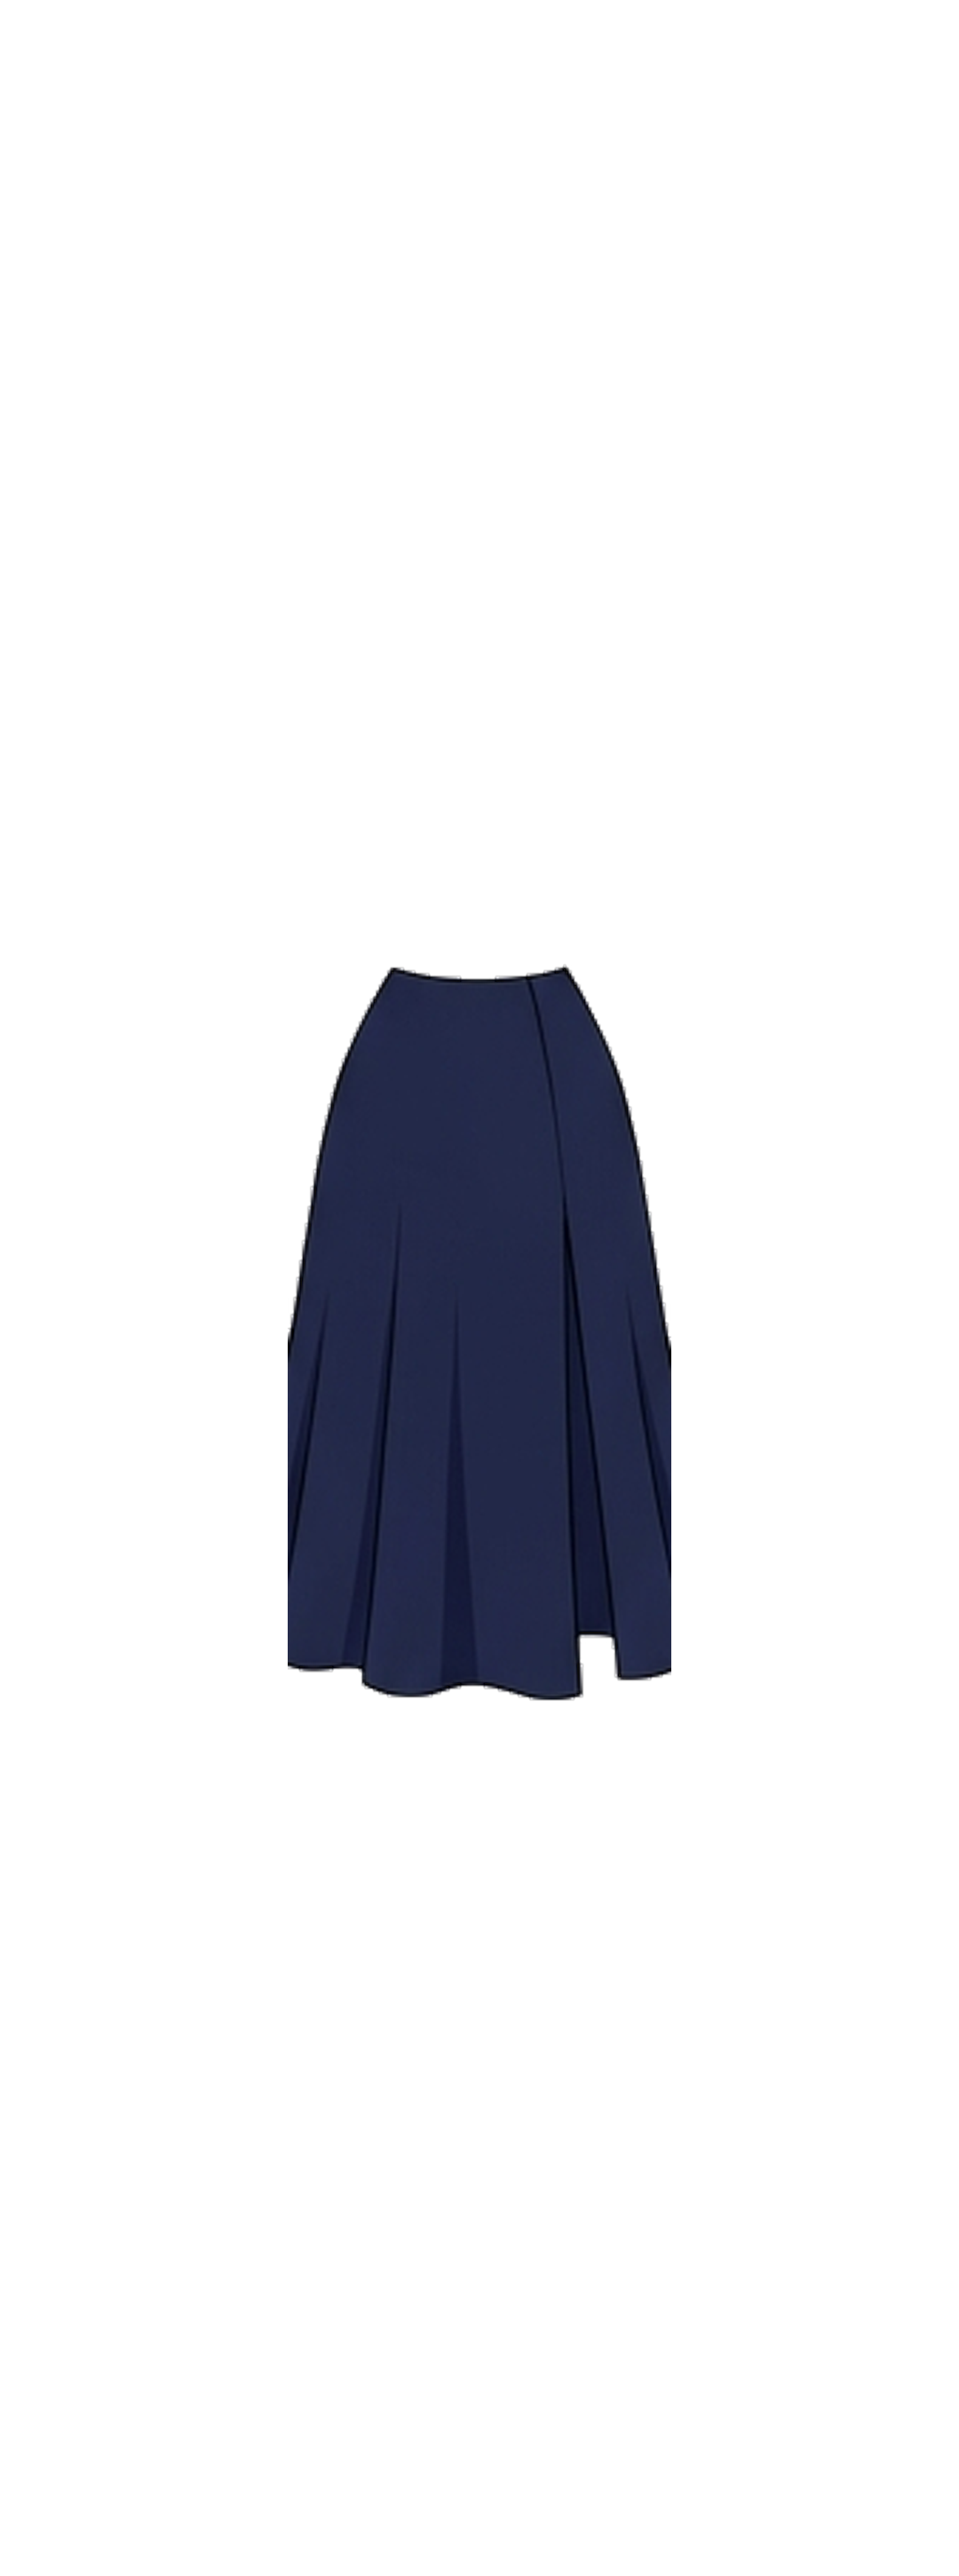
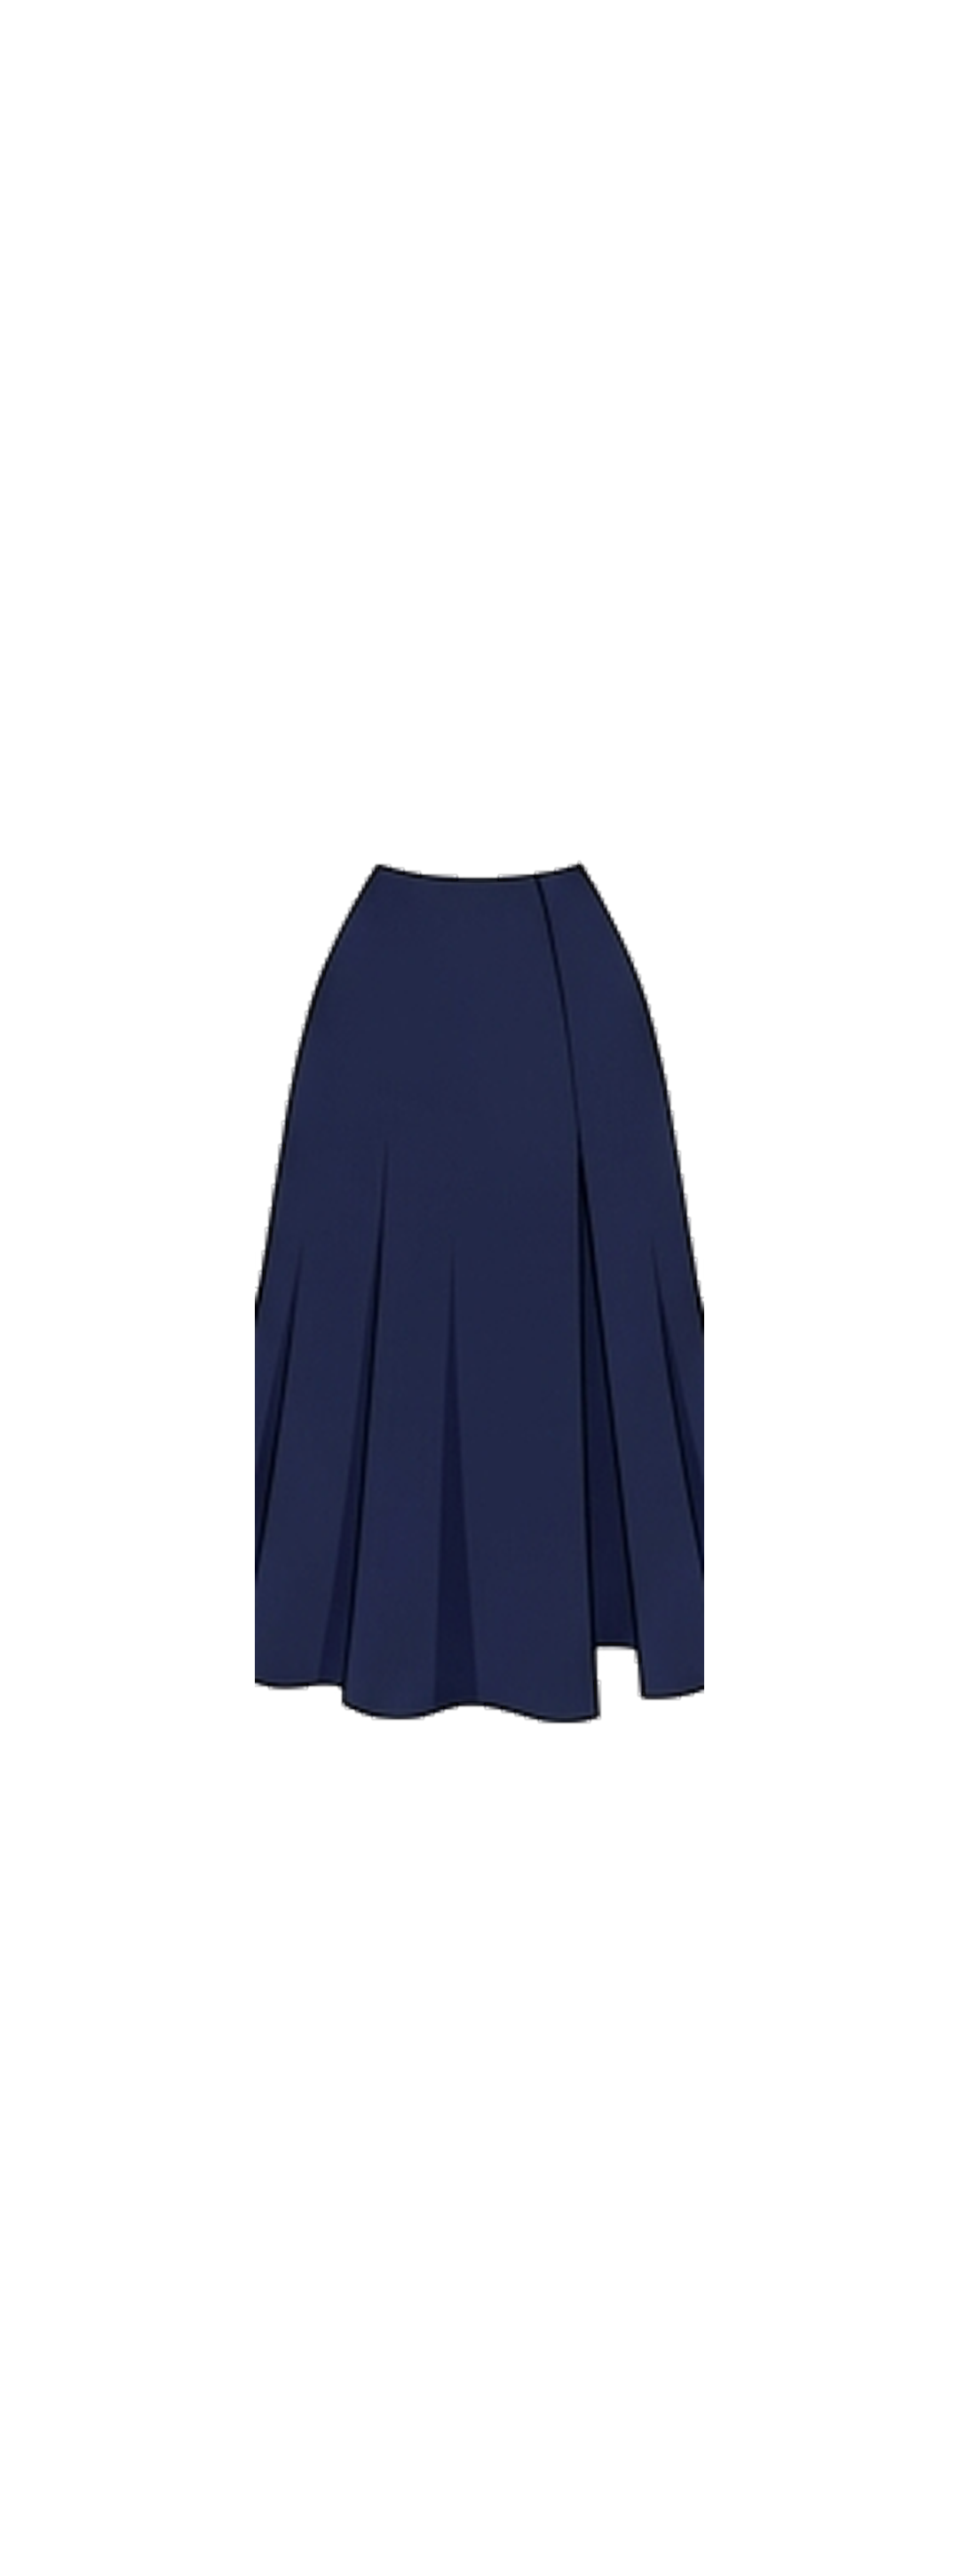
Close waist skin gap and head coverage gap, add cache-busting to layer URLs
Skirt was rendered too small/low, leaving a visible slab of bare hip
skin between the belt and the skirt top. Side-lock hair strands were
too short to reach the crown cap, leaving bald patches at the temples.
Rescaled both so they connect. Also versioned the layer PNG <img> src
so browsers don't serve stale cached art after a deploy.

Changed region(s): [[0.2444, 0.3103, 0.7333, 0.6828]]

diff --git a/preview/lily_v1.js b/preview/lily_v1.js
@@ -1,5 +1,6 @@
 const BASE = "../assets/lily_v1/layers/";
 const EXTRA = "../assets/lily_v1/extras/";
+const V = "20260716-armfix";
 
 // back -> front, d = parallax depth, g = motion group
 const LAYERS = [
@@ -46,7 +47,7 @@ let loaded = 0;
 const imgs = LAYERS.map((spec) => {
   const img = document.createElement("img");
   img.className = "layer";
-  img.src = (spec.extra ? EXTRA : BASE) + spec.n + ".png";
+  img.src = (spec.extra ? EXTRA : BASE) + spec.n + ".png?v=" + V;
   img.alt = spec.n;
   if (spec.g === "eyesClosed") img.style.opacity = 0;
   img.onload = () => { hint.textContent = `已載入 ${++loaded}/${LAYERS.length} 圖層`; };